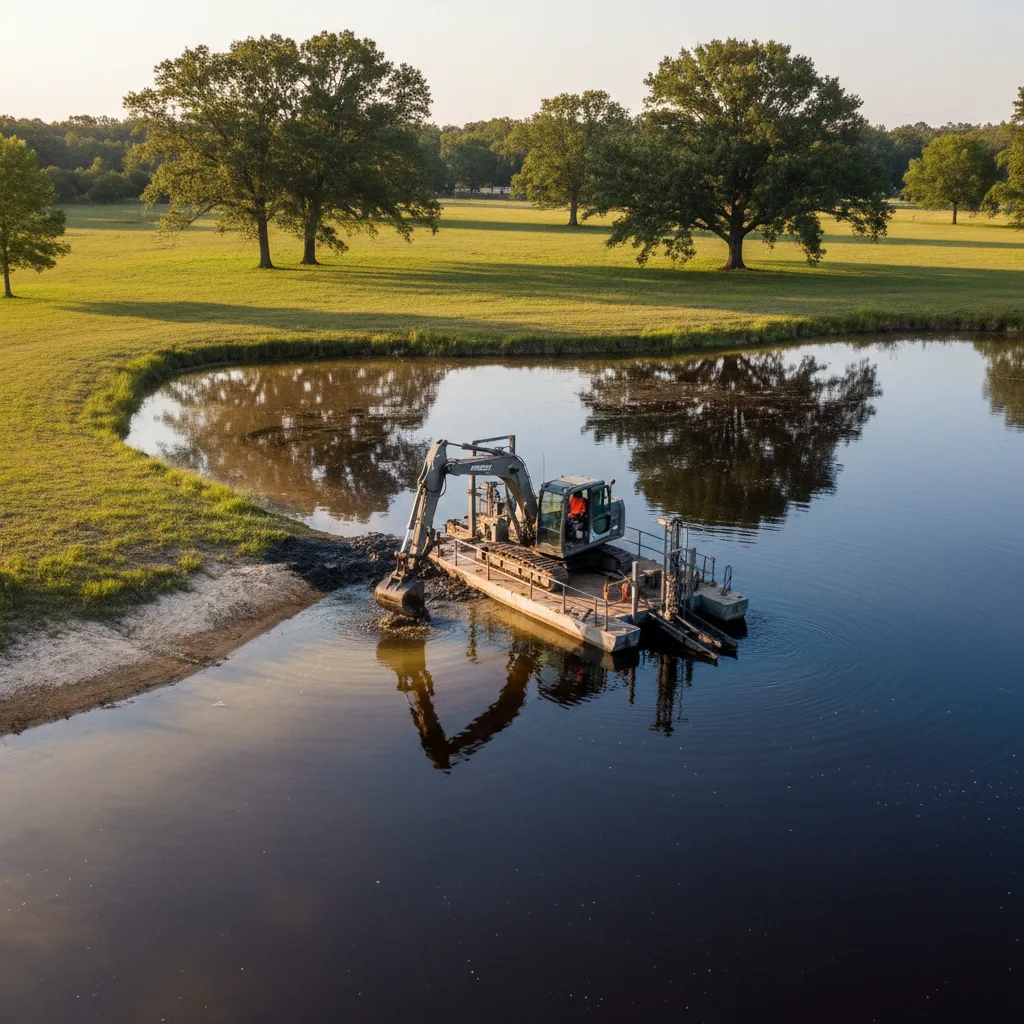
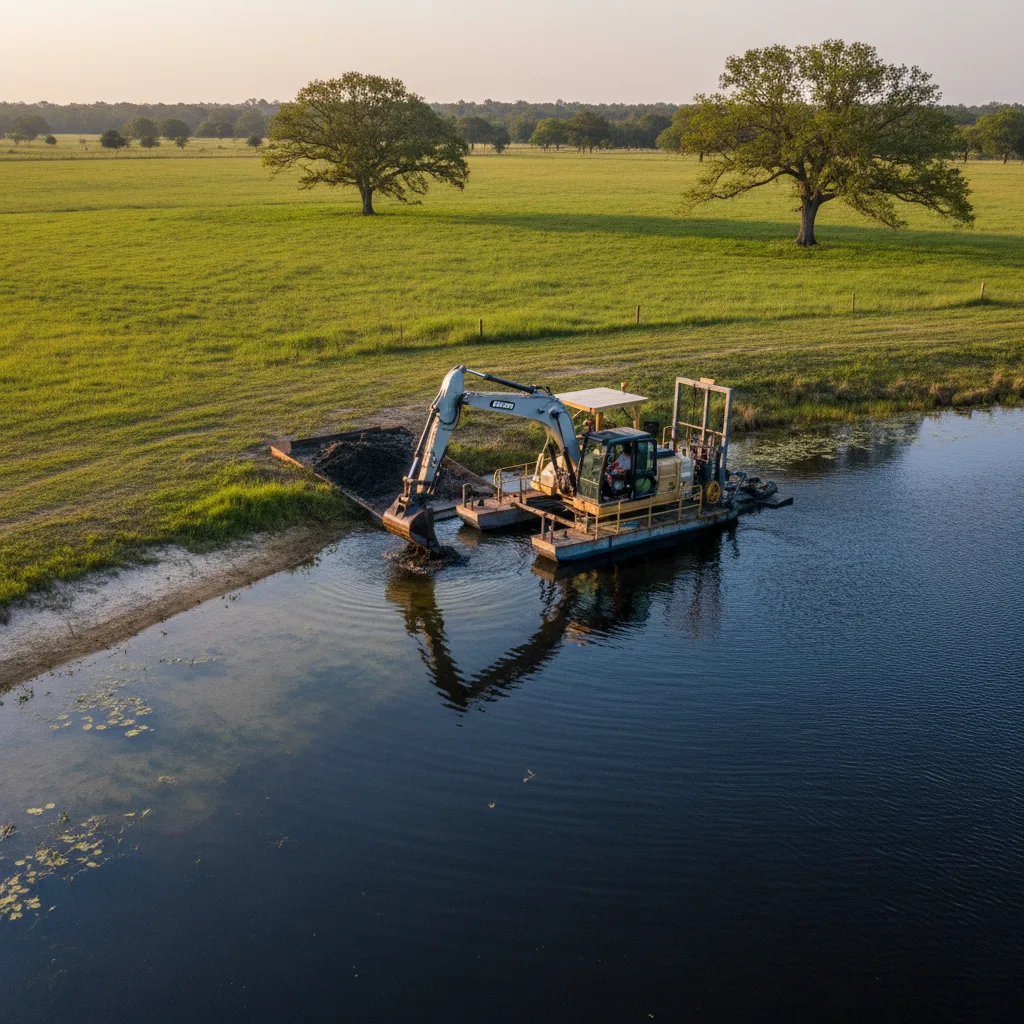
Generate the six remaining service photos and ship real ServiceDetail pages
Photography

- Adds six new on-brand photos via Nano Banana for water quality, fountains
  and aeration, aquatic plants, fisheries, fish stocking, and consulting
- Pipeline upgrade: scripts/generate-images.mjs now spawns ffmpeg to convert
  the raw PNG to WebP at quality 82 and removes the PNG, so a single
  npm run images:generate produces optimized, ready-to-commit assets
- Falls back to PNG when ffmpeg is not on PATH, with a warning
- All six photos are 44 to 264 KB each thanks to in-pipeline WebP

Data and pages

- src/data/services.js now carries an `image` path per service, single
  source of truth for any consumer
- src/pages/ServiceDetail.jsx replaces the generic stub with a real page:
  full-bleed hero using the service photo with Ken Burns and the same
  gradient/atmosphere treatment as the home Hero, animated headline,
  primary and secondary CTAs, plus a Related Services strip with three
  photo cards pulled from the catalog
- Navbar transparent-mode rule extended to include any /services/:slug,
  so the hero gets the full-bleed treatment with no top bar competing

Cost: about 0.28 USD for seven images this round (one was a re-roll of
dredging picked up by the filter, kept since the new take is sharper).

diff --git a/src/pages/ServiceDetail.jsx b/src/pages/ServiceDetail.jsx
@@ -1,6 +1,11 @@
-import { useParams } from 'react-router'
-import { PageStub } from './PageStub'
+import { Link, useParams } from 'react-router'
+import { motion } from 'framer-motion'
+import { ArrowRight } from 'lucide-react'
+import { Button } from '@/components/ui/Button'
 import { services } from '@/data/services'
+import { PageStub } from './PageStub'
+
+const ease = [0.16, 1, 0.3, 1]
 
 export default function ServiceDetail() {
   const { slug } = useParams()
@@ -17,10 +22,113 @@ export default function ServiceDetail() {
   }
 
   return (
-    <PageStub
-      eyebrow="Service"
-      title={service.title}
-      blurb={service.short}
-    />
+    <>
+      <section className="relative isolate flex min-h-[70svh] items-end overflow-hidden bg-navy-deep text-cream">
+        <div
+          aria-hidden="true"
+          className="ken-burns absolute inset-0 -z-20 bg-cover bg-center"
+          style={{ backgroundImage: `url(${service.image})` }}
+        />
+        <div className="absolute inset-0 -z-10 bg-gradient-to-t from-navy-deep/95 via-navy-deep/55 to-navy-deep/25" />
+        <div className="absolute inset-0 -z-10 bg-gradient-to-tr from-navy-deep/30 via-transparent to-gold/[0.05]" />
+
+        <div className="container-page pt-40 pb-20 sm:pt-48 sm:pb-24">
+          <motion.p
+            initial={{ y: 12, opacity: 0 }}
+            animate={{ y: 0, opacity: 1 }}
+            transition={{ duration: 0.5, ease }}
+            className="eyebrow !text-gold-soft"
+          >
+            Service
+          </motion.p>
+          <motion.h1
+            initial={{ y: 16, opacity: 0 }}
+            animate={{ y: 0, opacity: 1 }}
+            transition={{ duration: 0.7, ease, delay: 0.05 }}
+            className="mt-5 max-w-3xl text-cream text-balance [font-size:var(--text-display)]"
+          >
+            {service.title}
+          </motion.h1>
+          <motion.p
+            initial={{ y: 16, opacity: 0 }}
+            animate={{ y: 0, opacity: 1 }}
+            transition={{ duration: 0.7, ease, delay: 0.12 }}
+            className="mt-6 max-w-xl text-base leading-relaxed text-cream/80 sm:text-lg"
+          >
+            {service.short}
+          </motion.p>
+          <motion.div
+            initial={{ y: 16, opacity: 0 }}
+            animate={{ y: 0, opacity: 1 }}
+            transition={{ duration: 0.7, ease, delay: 0.2 }}
+            className="mt-10 flex flex-col gap-3 sm:flex-row sm:items-center sm:gap-4"
+          >
+            <Link to="/contact" className="w-full sm:w-auto">
+              <Button variant="primary" size="lg" className="w-full">
+                Request this service
+                <ArrowRight className="h-4 w-4 transition-transform duration-500 ease-[var(--ease-out-quart)] group-hover/btn:translate-x-1" />
+              </Button>
+            </Link>
+            <Link to="/services" className="w-full sm:w-auto">
+              <Button variant="outline" size="lg" className="w-full">
+                All services
+              </Button>
+            </Link>
+          </motion.div>
+        </div>
+      </section>
+
+      <RelatedServices currentSlug={service.slug} />
+    </>
+  )
+}
+
+function RelatedServices({ currentSlug }) {
+  const others = services.filter((s) => s.slug !== currentSlug).slice(0, 3)
+  return (
+    <section className="bg-sand py-20 sm:py-24">
+      <div className="container-page">
+        <div className="flex items-end justify-between gap-6">
+          <div>
+            <p className="eyebrow">More services</p>
+            <h2 className="mt-3 [font-size:var(--text-display-sm)]">
+              Often paired with this work.
+            </h2>
+          </div>
+          <Link
+            to="/services"
+            className="hidden text-sm font-medium font-display tracking-tight text-lake hover:text-lake-deep sm:inline"
+          >
+            View all
+          </Link>
+        </div>
+
+        <div className="mt-10 grid gap-4 sm:grid-cols-2 lg:grid-cols-3">
+          {others.map((s) => (
+            <Link
+              key={s.slug}
+              to={`/services/${s.slug}`}
+              className="group relative isolate flex aspect-[4/3] flex-col justify-end overflow-hidden rounded-[var(--radius-card)] ring-1 ring-hairline shadow-[var(--shadow-soft)]"
+            >
+              <div
+                aria-hidden="true"
+                className="absolute inset-0 -z-20 bg-cover bg-center transition-transform duration-[2400ms] ease-[var(--ease-out-quart)] group-hover:scale-105"
+                style={{ backgroundImage: `url(${s.image})` }}
+              />
+              <div
+                aria-hidden="true"
+                className="absolute inset-0 -z-10 bg-gradient-to-t from-navy-deep/90 via-navy-deep/30 to-transparent"
+              />
+              <div className="p-6 text-cream">
+                <h3 className="font-display text-xl font-semibold">{s.title}</h3>
+                <p className="mt-2 text-sm text-cream/75 line-clamp-2">
+                  {s.short}
+                </p>
+              </div>
+            </Link>
+          ))}
+        </div>
+      </div>
+    </section>
   )
 }

diff --git a/src/data/services.js b/src/data/services.js
@@ -1,7 +1,9 @@
 /**
- * Service catalog. `icon` keys reference Lucide React component names; the
- * lookup happens in src/components/home/ServicesBento.jsx so the data file
- * stays a plain JSON-shaped object.
+ * Service catalog. Single source of truth for the bento grid, the Services
+ * overview page, and the per-slug detail pages.
+ *
+ * `icon`  — Lucide React component name (looked up in components that need it)
+ * `image` — path under /public, generated via scripts/generate-images.mjs
  */
 export const services = [
   {
@@ -10,6 +12,7 @@ export const services = [
     short:
       'Restore depth, water capacity, and clarity by removing decades of accumulated muck without draining the pond.',
     icon: 'Layers',
+    image: '/images/services-dredging.webp',
     featured: true,
     badge: 'Most requested',
   },
@@ -19,6 +22,7 @@ export const services = [
     short:
       'Algae control, nutrient balancing, and biological treatments tuned to your waterbody.',
     icon: 'Droplets',
+    image: '/images/services-water-quality.webp',
   },
   {
     slug: 'fountains-aeration',
@@ -26,6 +30,7 @@ export const services = [
     short:
       'Surface fountains and bottom-diffused aeration sized to depth and surface area.',
     icon: 'Wind',
+    image: '/images/services-fountains-aeration.webp',
   },
   {
     slug: 'aquatic-plants',
@@ -33,6 +38,7 @@ export const services = [
     short:
       'Selective control of invasive vegetation while protecting native habitat.',
     icon: 'Leaf',
+    image: '/images/services-aquatic-plants.webp',
   },
   {
     slug: 'fisheries',
@@ -40,6 +46,7 @@ export const services = [
     short:
       'Electrofishing surveys, harvest plans, and underwater structure to grow real trophy fish.',
     icon: 'Fish',
+    image: '/images/services-fisheries.webp',
   },
   {
     slug: 'fish-stocking',
@@ -47,6 +54,7 @@ export const services = [
     short:
       'Bass, bluegill, catfish, and forage delivered and stocked on site.',
     icon: 'Sparkles',
+    image: '/images/services-fish-stocking.webp',
   },
   {
     slug: 'consulting',
@@ -54,5 +62,6 @@ export const services = [
     short:
       'Long-range plans for new builds, restorations, and conservation easements.',
     icon: 'Compass',
+    image: '/images/services-consulting.webp',
   },
 ]

diff --git a/src/components/layout/Navbar.jsx b/src/components/layout/Navbar.jsx
@@ -13,9 +13,10 @@ export function Navbar() {
   const [scrolled, setScrolled] = useState(false)
   const [menuOpen, setMenuOpen] = useState(false)
 
-  // Pages without a hero image start in solid mode.
-  const transparentRoutes = ['/']
-  const startsTransparent = transparentRoutes.includes(location.pathname)
+  // Pages with a full-bleed image hero start in transparent mode and
+  // transition to solid as the user scrolls. Other routes start solid.
+  const startsTransparent =
+    location.pathname === '/' || /^\/services\/[^/]+$/.test(location.pathname)
 
   useEffect(() => {
     if (!startsTransparent) {